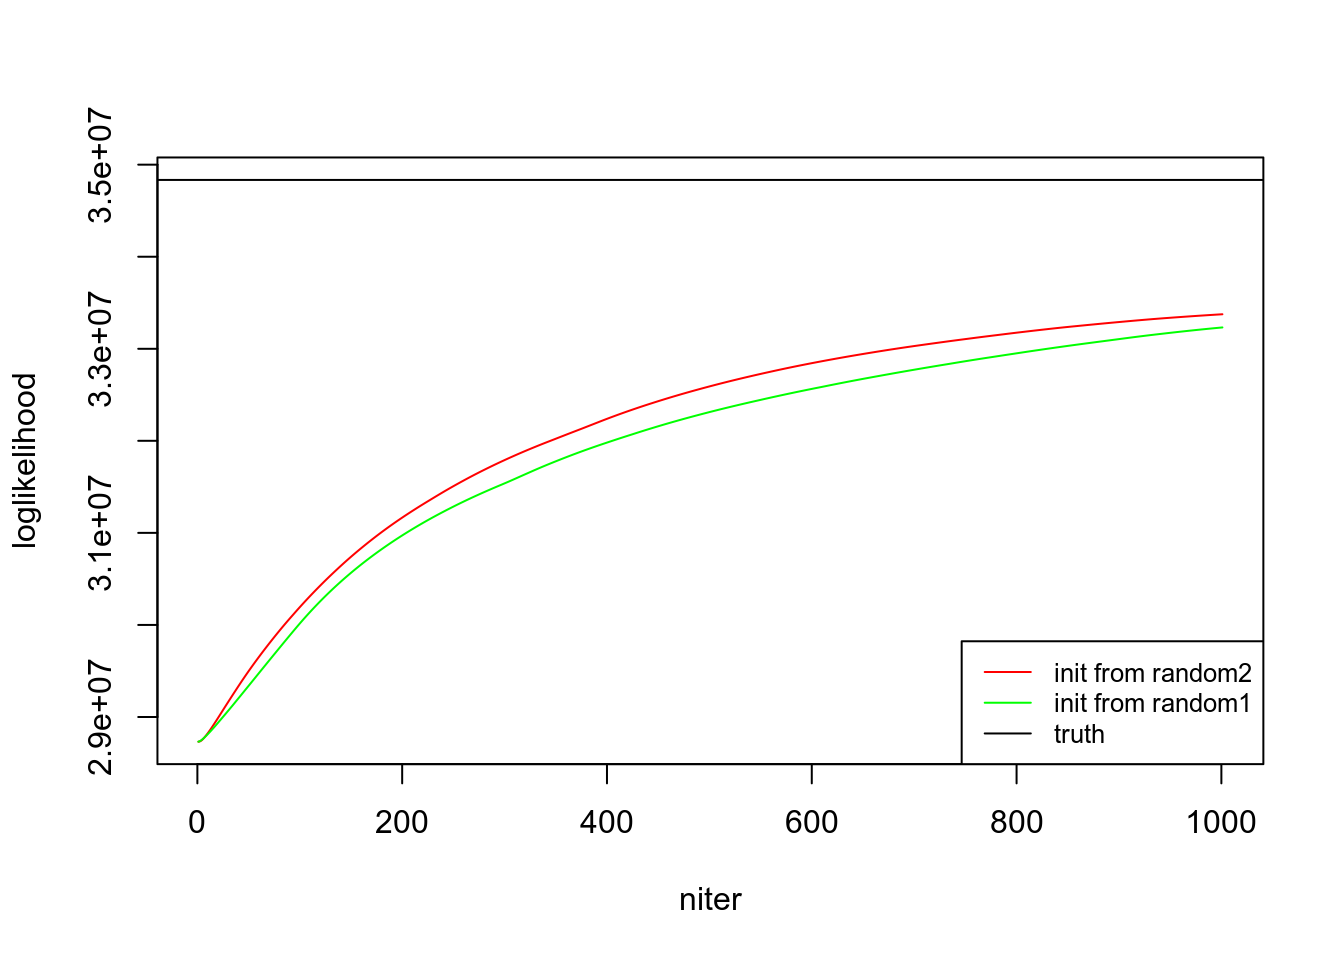
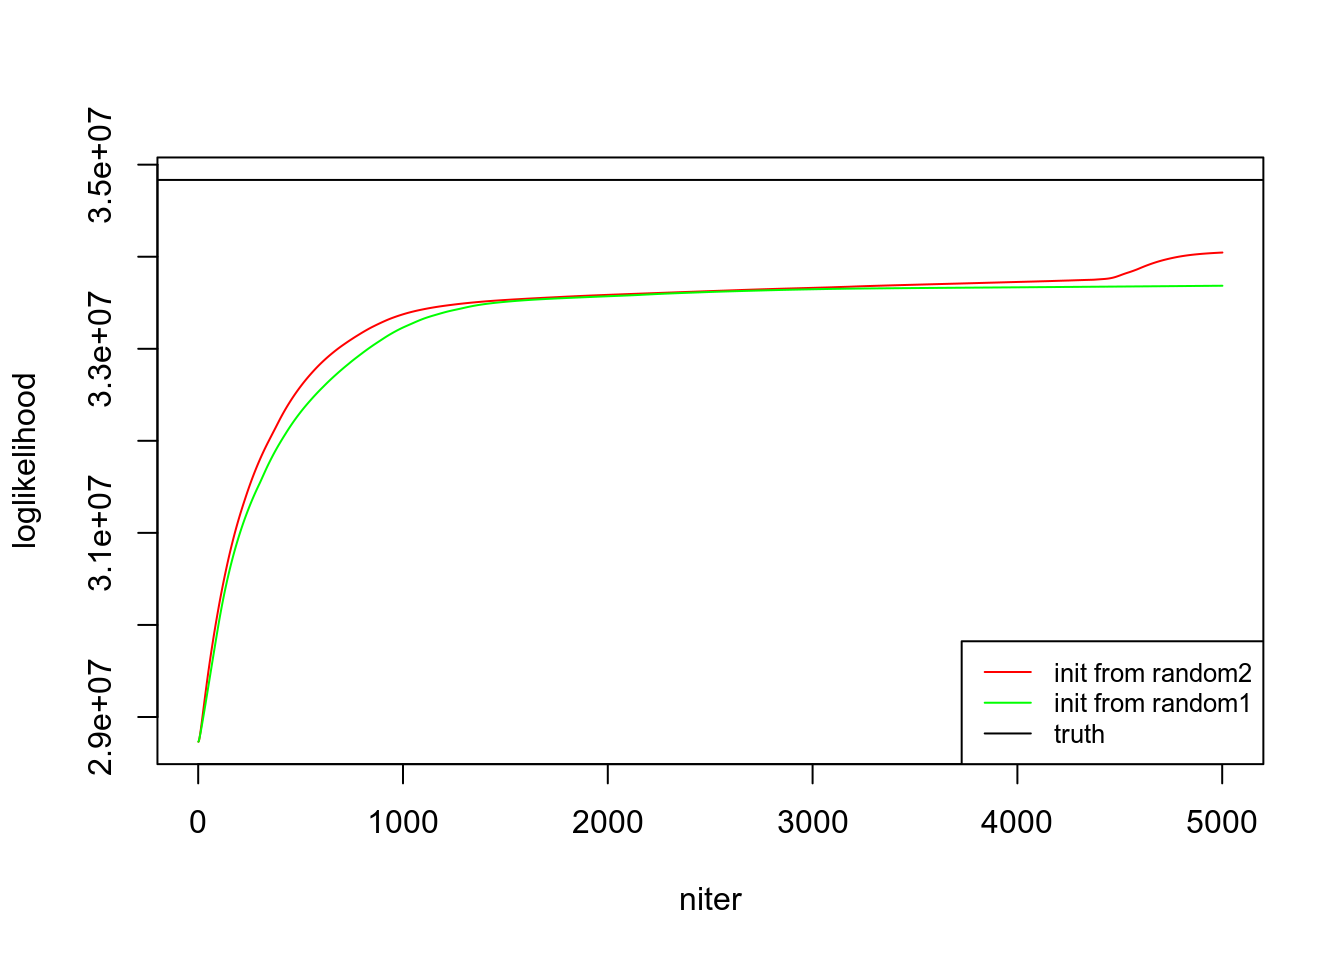
Build site.

diff --git a/docs/experiment_nb_means2.html b/docs/experiment_nb_means2.html
@@ -509,10 +509,10 @@ unnamed-chunk-3
 <div class="panel panel-default">
 <div class="panel-heading">
 <p class="panel-title">
-<a data-toggle="collapse" data-parent="#workflowr-checks" href="#strongRepositoryversionstrongahrefhttpsgithubcomzihao12ebpmfdemotree082977a911c171b78e4c29923f1a62e474a04aa4targetblank082977aa"> <span class="glyphicon glyphicon-ok text-success" aria-hidden="true"></span> <strong>Repository version:</strong> <a href="https://github.com/zihao12/ebpmf_demo/tree/082977a911c171b78e4c29923f1a62e474a04aa4" target="_blank">082977a</a> </a>
+<a data-toggle="collapse" data-parent="#workflowr-checks" href="#strongRepositoryversionstrongahrefhttpsgithubcomzihao12ebpmfdemotreeb266d33c2644629910b55cbbf95bcf094fef96eetargetblankb266d33a"> <span class="glyphicon glyphicon-ok text-success" aria-hidden="true"></span> <strong>Repository version:</strong> <a href="https://github.com/zihao12/ebpmf_demo/tree/b266d33c2644629910b55cbbf95bcf094fef96ee" target="_blank">b266d33</a> </a>
 </p>
 </div>
[2 lines of base64/hex data omitted]
 <div class="panel-body">
 <p>
 Great! You are using Git for version control. Tracking code development and connecting the code version to the results is critical for reproducibility. The version displayed above was the version of the Git repository at the time these results were generated. <br><br> Note that you need to be careful to ensure that all relevant files for the analysis have been committed to Git prior to generating the results (you can use <code>wflow_publish</code> or <code>wflow_git_commit</code>). workflowr only checks the R Markdown file, but you know if there are other scripts or data files that it depends on. Below is the status of the Git repository when the results were generated:
@@ -596,6 +596,40 @@ Message
 </tr>
 </thead>
 <tbody>
+<tr>
+<td>
+Rmd
+</td>
+<td>
+<a href="https://github.com/zihao12/ebpmf_demo/blob/b266d33c2644629910b55cbbf95bcf094fef96ee/analysis/experiment_nb_means2.Rmd" target="_blank">b266d33</a>
+</td>
+<td>
+zihao12
+</td>
+<td>
+2020-04-03
+</td>
+<td>
+run MORE iterations in experiment_nb_means2.Rmd
+</td>
+</tr>
+<tr>
+<td>
+html
+</td>
+<td>
+<a href="https://rawcdn.githack.com/zihao12/ebpmf_demo/25cbc786bd29183f8a2902388ecf96410409ab37/docs/experiment_nb_means2.html" target="_blank">25cbc78</a>
+</td>
+<td>
+zihao12
+</td>
+<td>
+2020-04-03
+</td>
+<td>
+Build site.
+</td>
+</tr>
 <tr>
 <td>
 Rmd
@@ -936,7 +970,7 @@ set.seed(123)</code></pre>
 <!-- ```{r cache=TRUE, autodep=TRUE, message=FALSE, warning=FALSE} -->
 <!-- exper <- exper_nb_means(K = 10, p = 99, maxiter = 100, verbose = FALSE) -->
 <!-- ``` -->
-<pre class="r"><code>exper &lt;- exper_nb_means(K = 10, p = 999, maxiter = 1000, verbose = FALSE)</code></pre>
+<pre class="r"><code>exper &lt;- exper_nb_means(K = 10, p = 999, maxiter = 5000, verbose = FALSE)</code></pre>
 <ul>
 <li>There are optimization issues when initializing from truth, or running too many iterations …</li>
 </ul>
@@ -979,6 +1013,17 @@ Date
 </tr>
 </thead>
 <tbody>
+<tr>
+<td>
+<a href="https://github.com/zihao12/ebpmf_demo/blob/25cbc786bd29183f8a2902388ecf96410409ab37/docs/figure/experiment_nb_means2.Rmd/unnamed-chunk-4-1.png" target="_blank">25cbc78</a>
+</td>
+<td>
+zihao12
+</td>
+<td>
+2020-04-03
+</td>
+</tr>
 <tr>
 <td>
 <a href="https://github.com/zihao12/ebpmf_demo/blob/be0a7c39b2cd43288a1b9d0819bfbb05fa588c3c/docs/figure/experiment_nb_means2.Rmd/unnamed-chunk-4-1.png" target="_blank">be0a7c3</a>
@@ -1058,6 +1103,17 @@ Date
 <tbody>
 <tr>
 <td>
+<a href="https://github.com/zihao12/ebpmf_demo/blob/25cbc786bd29183f8a2902388ecf96410409ab37/docs/figure/experiment_nb_means2.Rmd/unnamed-chunk-5-1.png" target="_blank">25cbc78</a>
+</td>
+<td>
+zihao12
+</td>
+<td>
+2020-04-03
+</td>
+</tr>
+<tr>
+<td>
 <a href="https://github.com/zihao12/ebpmf_demo/blob/be0a7c39b2cd43288a1b9d0819bfbb05fa588c3c/docs/figure/experiment_nb_means2.Rmd/unnamed-chunk-5-1.png" target="_blank">be0a7c3</a>
 </td>
 <td>
@@ -1132,6 +1188,17 @@ Date
 </tr>
 </thead>
 <tbody>
+<tr>
+<td>
+<a href="https://github.com/zihao12/ebpmf_demo/blob/25cbc786bd29183f8a2902388ecf96410409ab37/docs/figure/experiment_nb_means2.Rmd/unnamed-chunk-6-1.png" target="_blank">25cbc78</a>
+</td>
+<td>
+zihao12
+</td>
+<td>
+2020-04-03
+</td>
+</tr>
 <tr>
 <td>
 <a href="https://github.com/zihao12/ebpmf_demo/blob/be0a7c39b2cd43288a1b9d0819bfbb05fa588c3c/docs/figure/experiment_nb_means2.Rmd/unnamed-chunk-6-1.png" target="_blank">be0a7c3</a>
